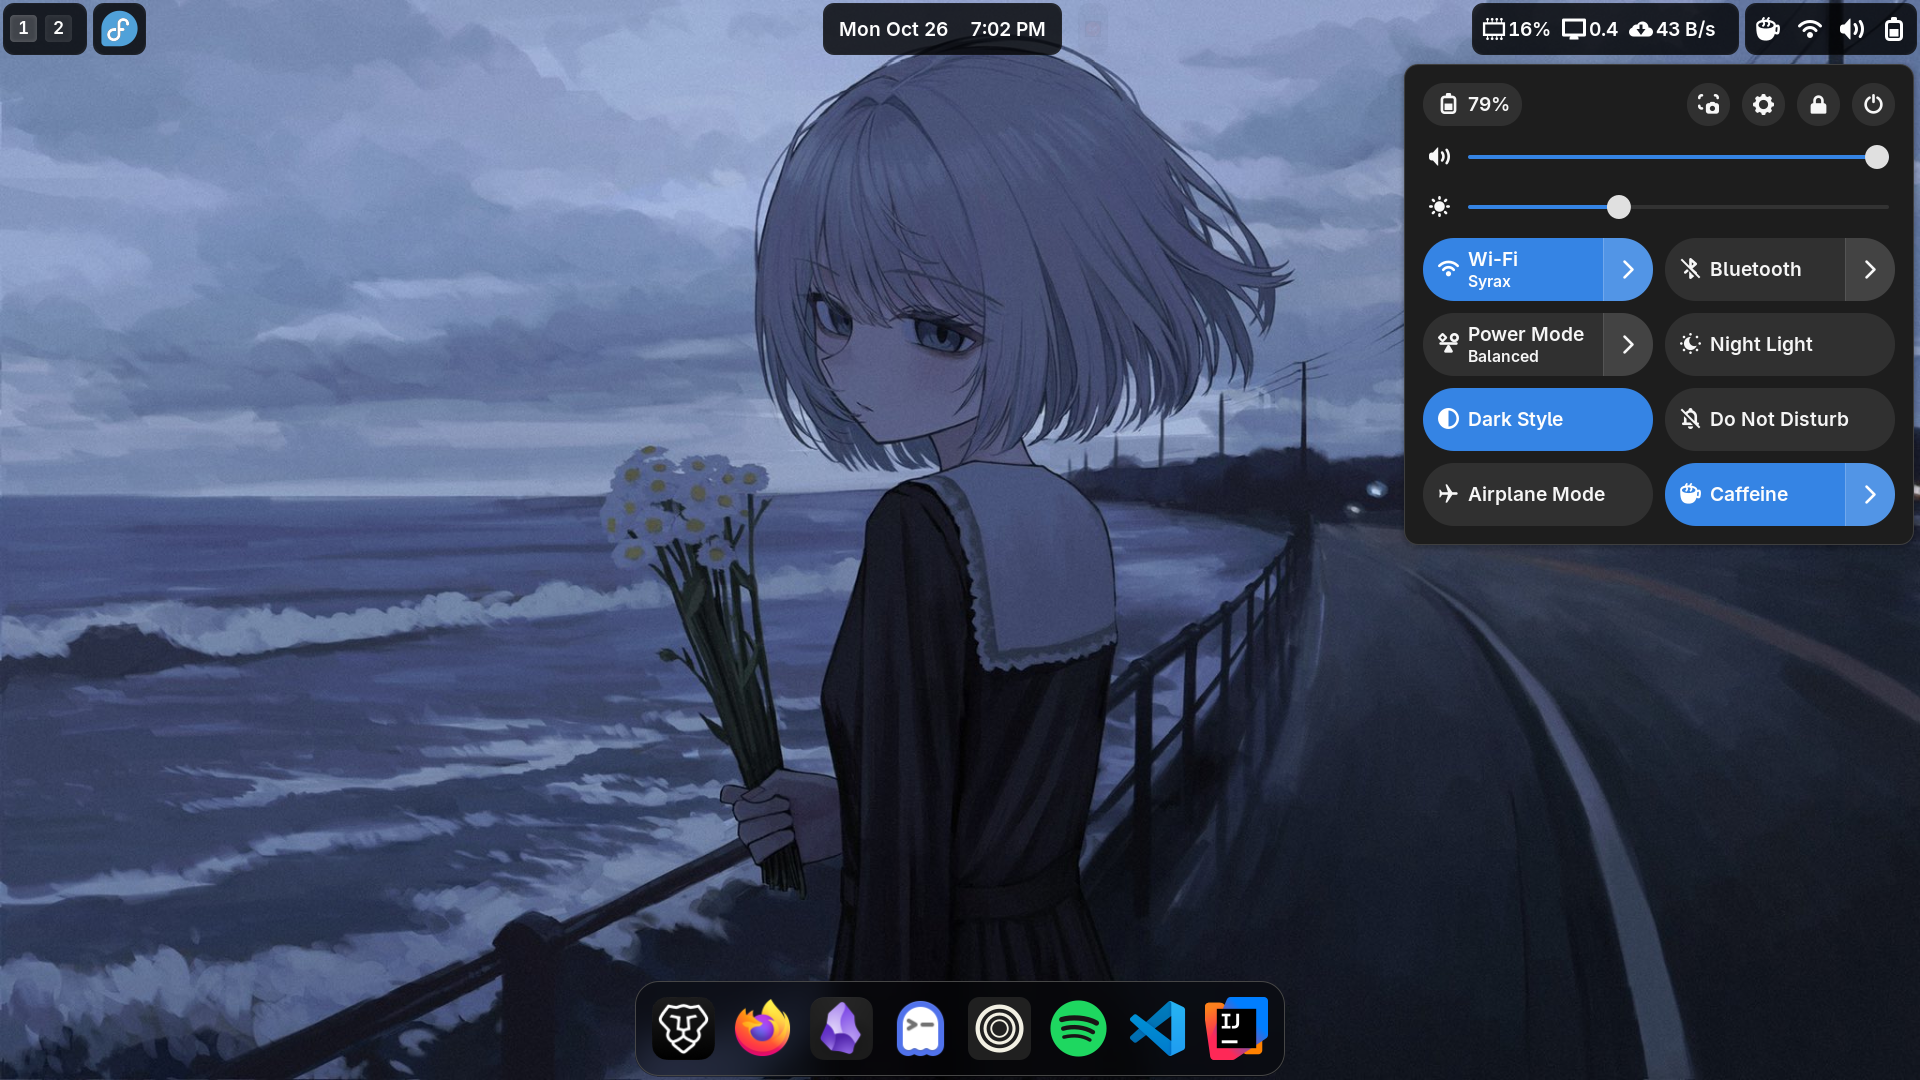
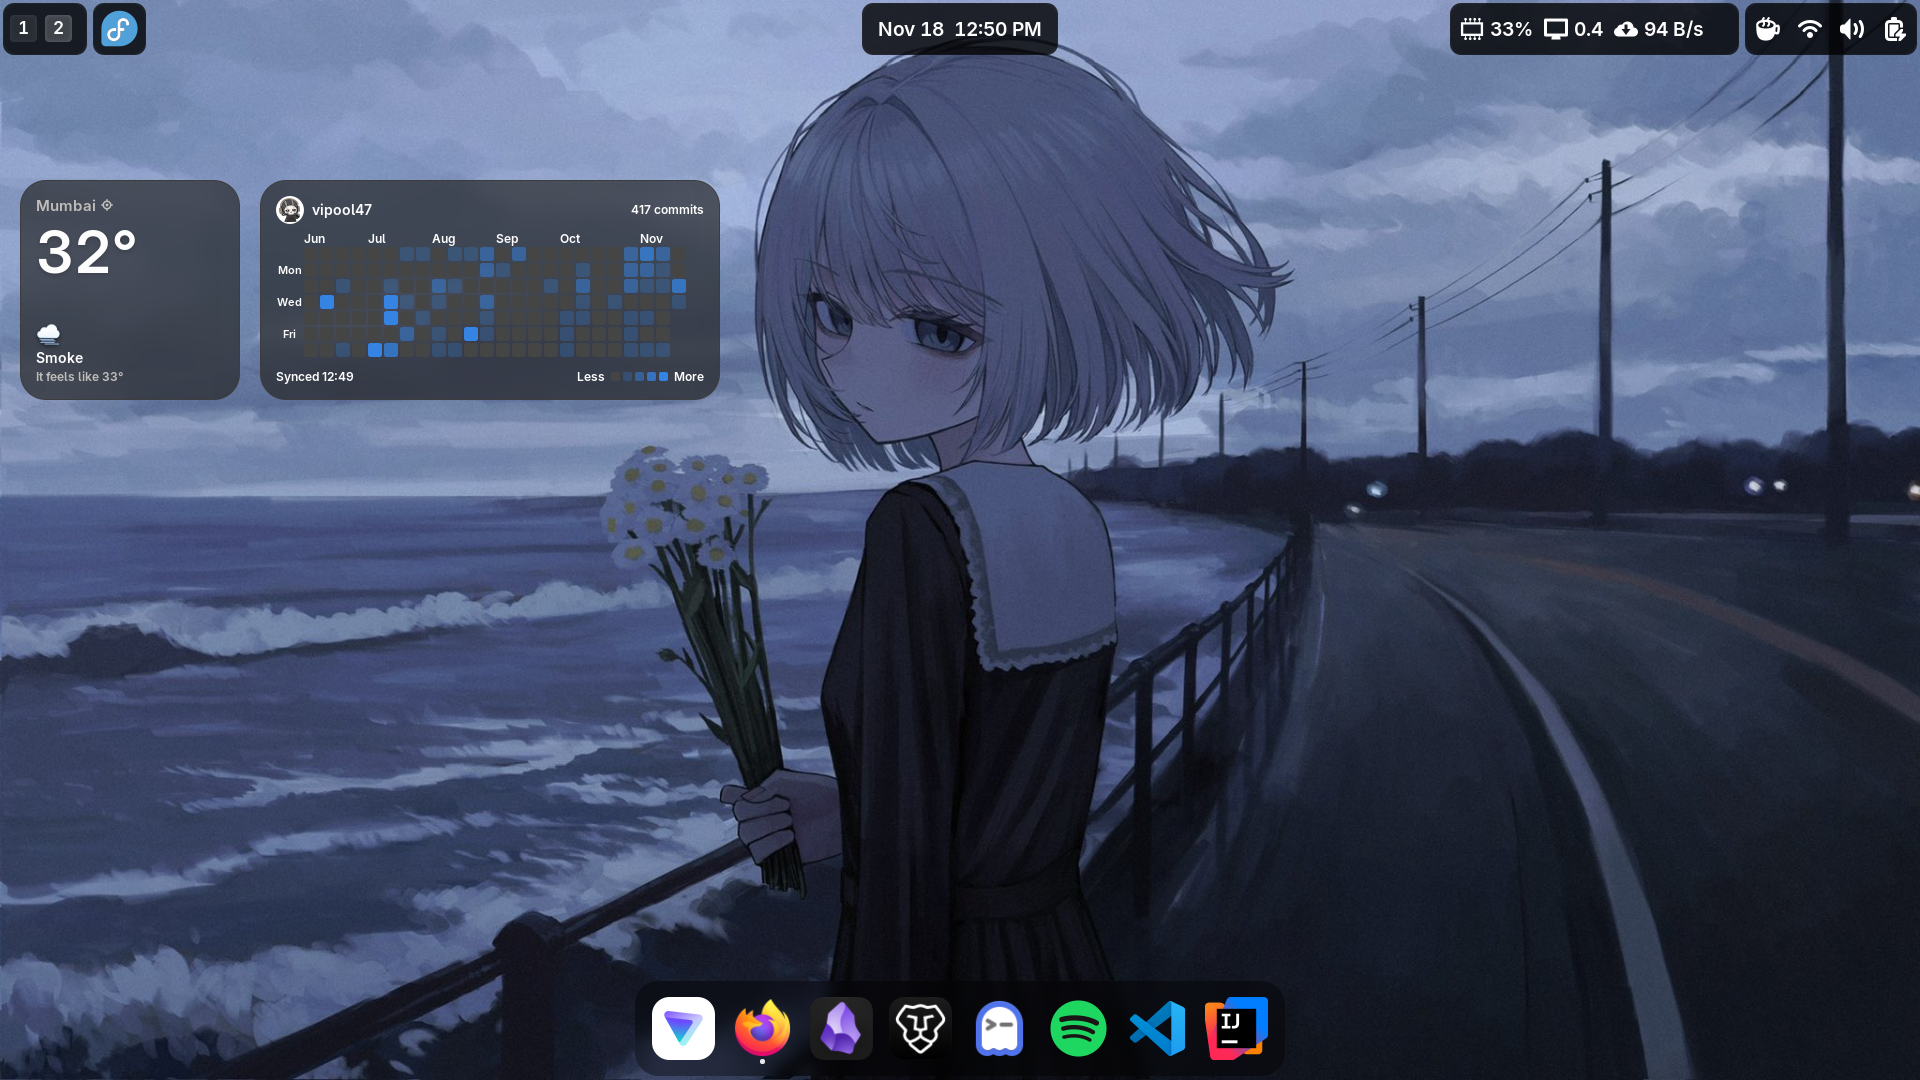
added widgets & minor updates

diff --git a/README.md b/README.md
@@ -29,40 +29,33 @@ A collection of my configurations, desktop customizations and application settin
 - Media Controls
 - Tasks in Panel
 - Tiling Shell
-- User Themes
 - Vitals
 - Widgets (by distro)
 
-## 📸 In Action
+## In Action
 
-### 🖥 Desktop
+### Desktop
 ![Desktop](screenshots/desktop.png)
 
-### 🖥 Widgets
-![Desktop](screenshots/desktop1.png)
+### Shell-theme
+![Desktop](screenshots/shell-theme.png)
 
-### 🌊 CAVA
-![CAVA](screenshots/cava.png)
-
-### 🪟 GNOME Overview
-![GNOME Overview](screenshots/overview.png)
-
-### 💻 Ghostty & Terminal
+### Ghostty & Cava
 ![Ghostty](screenshots/ghostty.png)
 
-### 📊 Fastfetch
+### Fastfetch
 ![Fastfetch](screenshots/fastfetch.png)
 
-### 🚀 Vicinae Launcher
+### Vicinae Launcher
 ![Vicinae](screenshots/vicinae.png)
 
-### 🧠 Obsidian
+### Obsidian
 ![Obsidian](screenshots/obsidian.png)
 
-### 🧑💻 Zed Editor
+### Zed Editor
 ![Zed](screenshots/zed.png)
 
-### 🦊 Firefox
+### Firefox
 ![Firefox](screenshots/firefox.png)
 
 ## 📂 What's Inside
@@ -85,7 +78,7 @@ Check out my [**GNOME Top Panel Customization Guide**](TOP-PANEL.md) for step-by
 
 ## Restoring GNOME Settings 
 
-The `gnome/` directory contains exported GNOME and extension settings. Install the relevant extensions first, then import their settings using Dconf.
+Install the relevant extensions first, then import their settings using Dconf.
 
 Example — restoring Dash to Dock:
 
@@ -93,7 +86,7 @@ Example — restoring Dash to Dock:
 dconf load /org/gnome/shell/extensions/dash-to-dock/ < gnome/dash-to-dock.ini
 ```
 
-Back up your existing settings before importing. Compatibility may vary across GNOME and extension versions so keep backup of your configs.
+Compatibility may vary across GNOME and extension versions so keep backup of your configs.
 
 
 ## ⭐ Like This Setup?

diff --git a/TOP-PANEL.md b/TOP-PANEL.md
@@ -6,7 +6,7 @@ A step-by-step guide to achieving the translucent, blurred GNOME top panel shown
 
 - **Blur my Shell** - panel transparency and blur
 - **Just Perfection** - panel customization
-- **Tasks in Panel** - window and application buttons 
+- **Tasks in Panel** - window and application buttons (optional)
 - **ArcMenu** - fedora icon (optional)
 
 ## 1. Install and Configure Extensions
@@ -86,7 +86,3 @@ Under the icon settings, choose the icon you prefer.
 
 ![ArcMenu settings 5](screenshots/toppanel/arcmenu5.png)
 
-## Notes
-
-- Back up your existing extension settings before making changes or upgrading extensions
-- If an update causes problems, restore a known-working configuration and use compatible extension versions.
